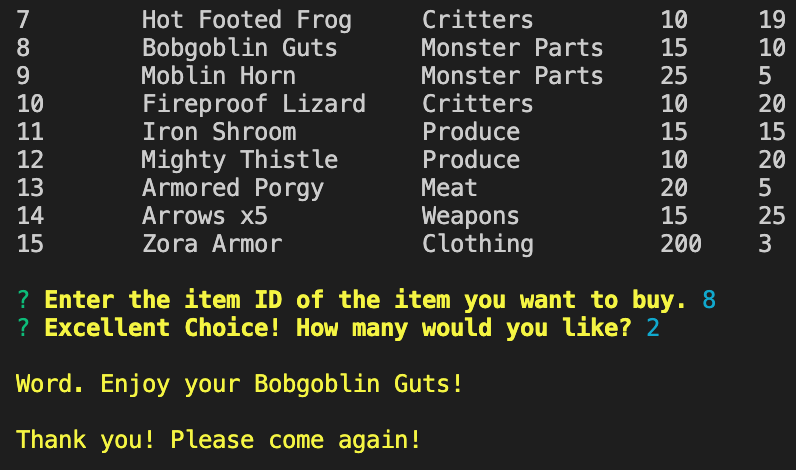
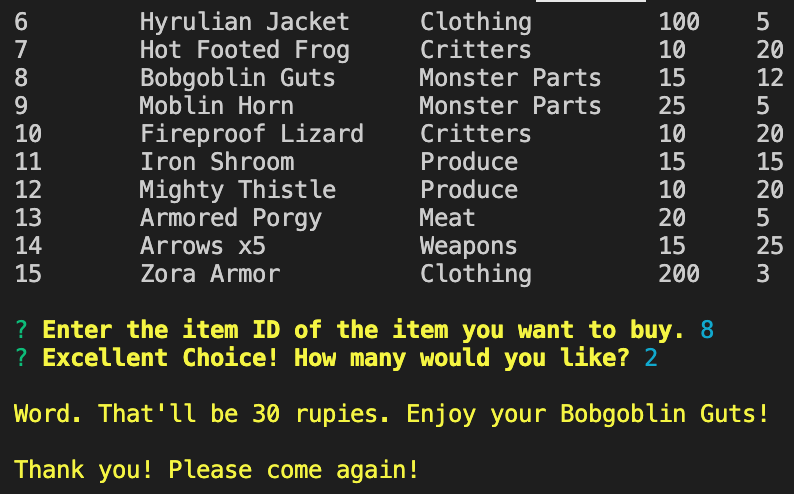
added price total to purchase function

diff --git a/bamazonCustomer.js b/bamazonCustomer.js
@@ -60,6 +60,7 @@ function checkInv() {
 
     connection.query("SELECT * FROM products", function (err, res) {
         stockQuantity = res[saleItem].stock_quantity;
+        var totalPrice = res[saleItem].price * saleQuantity;
         if (err) throw err;
         //call the purchase function again if not enough stock
         if (res[saleItem].stock_quantity < saleQuantity) {
@@ -67,7 +68,7 @@ function checkInv() {
             purchase();
 
         } else {
-            console.log(colors.brightYellow("\nWord. Enjoy your " + res[saleItem].product_name + "!\n"));
+            console.log(colors.brightYellow("\nWord. That'll be " + totalPrice + " rupies. Enjoy your " + res[saleItem].product_name + "!\n"));
             transact()
 
         }

diff --git a/README.md b/README.md
@@ -5,7 +5,7 @@ Bamazon is a CLI storefront app. On load, the app displays a table of items for 
 ![Storefront](storefront.png)
 
 
-It immediately prompts the user to enter the item ID of the item they want to purchase. After checking that the order is in stock, the app confirms the sale and updates the inventory accordingly. 
+It immediately prompts the user to enter the item ID of the item they want to purchase and how many of the they'd like. After checking that the order is in stock, the app confirms the sale and updates the inventory accordingly. 
 
 
 ## Technologies Used
@@ -21,10 +21,10 @@ For the database, I used mySQL and mySQL Workbench. The schema:
 
 ![Schema](schema.png)
 
-The `purchase()` function uses inquirer to prompt the user to complete the transaction. Then, the `checkInv()` function queries the database to make sure the requested quantity doesn not exceed the stock quantity. If it does, the app displays a message saying as much and calls the `purchase()` function again. In the screen shot below, the user chose to purchase two "Bobgoblin Guts."     
+The `purchase()` function uses inquirer to prompt the user to complete the transaction. Then, the `checkInv()` function queries the database to make sure the requested quantity doesn not exceed the stock quantity. If it does, the app displays a message saying as much and calls the `purchase()` function again. If not, it confirms the purchase, figures the total cost, and calls the `transact()` function. In the screen shot below, the user chose to purchase two "Bobgoblin Guts."     
 
 ![Transaction](transaction.png)
 
-The `transact()` function updates the database. As shown below, the stock quantity of "Bobgoblin Guts" has decreased from 10 to 8.
+The `transact()` function updates the database. As shown below, the stock quantity of "Bobgoblin Guts" has decreased from 12 to 10.
 
 ![Updated-Database](updated-DB.png)
